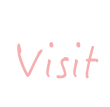
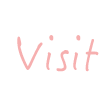
Login Change

diff --git a/src/main/resources/ui/loginui/css/login.css b/src/main/resources/ui/loginui/css/login.css
@@ -14,39 +14,28 @@
 }
 
 #signin:hover{
-	-fx-background-image:url("file:src/main/resources/image/login/signin.png");	
+	-fx-background-image:url("file:src/main/resources/image/login/signin_hover.png");	
 }
 
-#signin:pressed{
-	-fx-background-image:url("file:src/main/resources/image/login/signin.png");	
-}
 
 #exit{
 	-fx-background-image:url("file:src/main/resources/image/login/exit.png");	
 }
 #exit:hover{
-	-fx-background-image:url("file:src/main/resources/image/login/exit.png");
+	-fx-background-image:url("file:src/main/resources/image/login/exit_hover.png");
 }
-#exit:pressed{
-	-fx-background-image:url("file:src/main/resources/image/login/exit.png");
-}
+
 
 #visit{
 	-fx-background-image:url("file:src/main/resources/image/login/visit.png");	
 }
 #visit:hover{
-	-fx-background-image:url("file:src/main/resources/image/login/visit.png");
-}
-#visit:pressed{
-	-fx-background-image:url("file:src/main/resources/image/login/visit.png");
+	-fx-background-image:url("file:src/main/resources/image/login/visit_hover.png");
 }
 
 #login{
 	-fx-background-image:url("file:src/main/resources/image/login/login.png");	
 }
 #login:hover{
-	-fx-background-image:url("file:src/main/resources/image/login/login.png");
-}
-#login:pressed{
-	-fx-background-image:url("file:src/main/resources/image/login/login.png");
+	-fx-background-image:url("file:src/main/resources/image/login/login_hover.png");
 }

diff --git a/src/main/resources/ui/loginui/css/signin.css b/src/main/resources/ui/loginui/css/signin.css
@@ -9,10 +9,5 @@ and open the template in the editor.
 */
 
  .root{
-	-fx-background-image: url("file:src/main/resources/image/login/signin.jpg");
-}
-
-.label{
-	-fx-text-alignment:center;
-	-fx-wrap-text:true;
-}       
+	-fx-background-image: url("file:src/main/resources/image/login/signin_background.jpg");
+}   

diff --git a/src/main/java/presentation/loginui/SigninController.java b/src/main/java/presentation/loginui/SigninController.java
@@ -34,14 +34,19 @@ public class SigninController implements Initializable{
 	
 	@FXML
 	public void confirm(ActionEvent event) {
-		checkInputFormatter();
+		boolean formatter_check = checkInputFormatter();
+		if(formatter_check) {
+			//Pass the check
+			
+		}
 	}
 	
-	private void checkInputFormatter() {
-		checkUserName();
-		checkName();
-		checkPhone();
-		checkPassword();
+	private boolean checkInputFormatter() {
+		boolean user_name_check = checkUserName();
+		boolean name_check = checkName();
+		boolean phone_check = checkPhone();
+		boolean pass_check = checkPassword();
+		return user_name_check && name_check && phone_check && pass_check;
 	}
 	
 	//TODO : Connect the server and check the user_name is used or not
@@ -50,13 +55,13 @@ public class SigninController implements Initializable{
 		int name_length = user.length();
 		if(name_length == 0) {
 			//Name shouldn't be empty
-			user_name_warning.setText("Please Input Your User Name");
+			user_name_warning.setText("请输入用户名");
 			return false;
 		}
 		boolean user_name_check = NumberConfig.userNameFormatterCheck(user);
 		if(!user_name_check) {
 			//name formatter check
-			user_name_warning.setText("Your user name should be 8 ~ 12 bits and can only use 0~9 and a~z");
+			user_name_warning.setText("用户名应为8～12位数字或字母");
 		}
 		return user_name_check;
 	}
@@ -67,12 +72,12 @@ public class SigninController implements Initializable{
 	private boolean checkName() {
 		String c_name = name.getText();
 		if(c_name.length() == 0) {
-			name_warning.setText("Please Input Your Name");
+			name_warning.setText("请输入您的姓名");
 			return false;
 		}
 		boolean name_check = NumberConfig.nameFormatterCheck(c_name);
 		if(!name_check) {
-			name_warning.setText("Your name should be 1~12 bits and empty char is not permit");
+			name_warning.setText("姓名应为1～12位，不包含空格等特殊字符");
 		}
 		return name_check;
 		
@@ -84,12 +89,12 @@ public class SigninController implements Initializable{
 	private boolean checkPhone() {
 		String ph = phone.getText();
 		if(ph.length() == 0) {
-			phone_warning.setText("Please input your phone");
+			phone_warning.setText("请输入手机");
 			return false;
 		}
 		boolean ph_check = NumberConfig.phoneFormatterCheck(ph);
 		if(!ph_check) {
-			phone_warning.setText("Your phone number should be 11 bit, and only number permit");
+			phone_warning.setText("手机号应为11位数字");
 		}
 		return ph_check;
 	}
@@ -102,16 +107,16 @@ public class SigninController implements Initializable{
 		String pass = ps.getText();
 		String pass_again = ps_again.getText();
 		if(pass.length() == 0) {
-			ps_warning.setText("Please Input Your Password");
+			ps_warning.setText("请输入密码");
 			return false;
 		}
 		boolean ps_check = NumberConfig.passFormatterCheck(pass);
 		if(!ps_check) {
-			ps_warning.setText("Your password should be 8~16 bits, and empty char is not permit");
+			ps_warning.setText("密码应为8～16位，且不含空格等特殊字符");
 			return false;
 		}
 		if(!pass.equals(pass_again)) {
-			ps_warning.setText("The password must be the same.");
+			ps_warning.setText("两次密码不相同");
 			return false;
 		}
 		return true;
@@ -143,15 +148,20 @@ public class SigninController implements Initializable{
 	
 	@FXML
 	public void passwordModify(MouseEvent event){
-		checkWarningBefore(ps_warning);
-		ps.setText("");
+		boolean warn_before = checkWarningBefore(ps_warning);
+		if(warn_before) {
+			ps.setText("");
+			ps_again.setText("");
+		}
 	}
 	
-	private void checkWarningBefore(Label label) {
+	private boolean checkWarningBefore(Label label) {
 		String warning = label.getText();
 		if(warning.length() != 0) {
 			label.setText("");
+			return true;
 		}
+		return false;
 	}
 
 }

diff --git a/src/main/java/config/NumberConfig.java b/src/main/java/config/NumberConfig.java
@@ -42,7 +42,7 @@ public class NumberConfig {
 			Document document = reader.read(cfg_file);
 			Element root = document.getRootElement();
 			//Element Reach
-			Element username = root.element("username");
+			Element username = root.element("user_name");
 			Element name = root.element("name");
 			Element password = root.element("password");
 			Element phone = root.element("phone");

diff --git a/src/main/java/presentation/utilui/WindowGrab.java b/src/main/java/presentation/utilui/WindowGrab.java
@@ -29,6 +29,7 @@ public class WindowGrab {
 		Stage stage = new Stage();
 		Parent root = FXMLLoader.load(fxml_path);
 		Scene scene = new Scene(root);
+		scene.getStylesheets().add(new URL("file:src/main/resources/ui/loginui/css/login.css").toExternalForm());
 		stage.setScene(scene);
 		stage.initModality(Modality.WINDOW_MODAL);
 		// 设置父窗口
